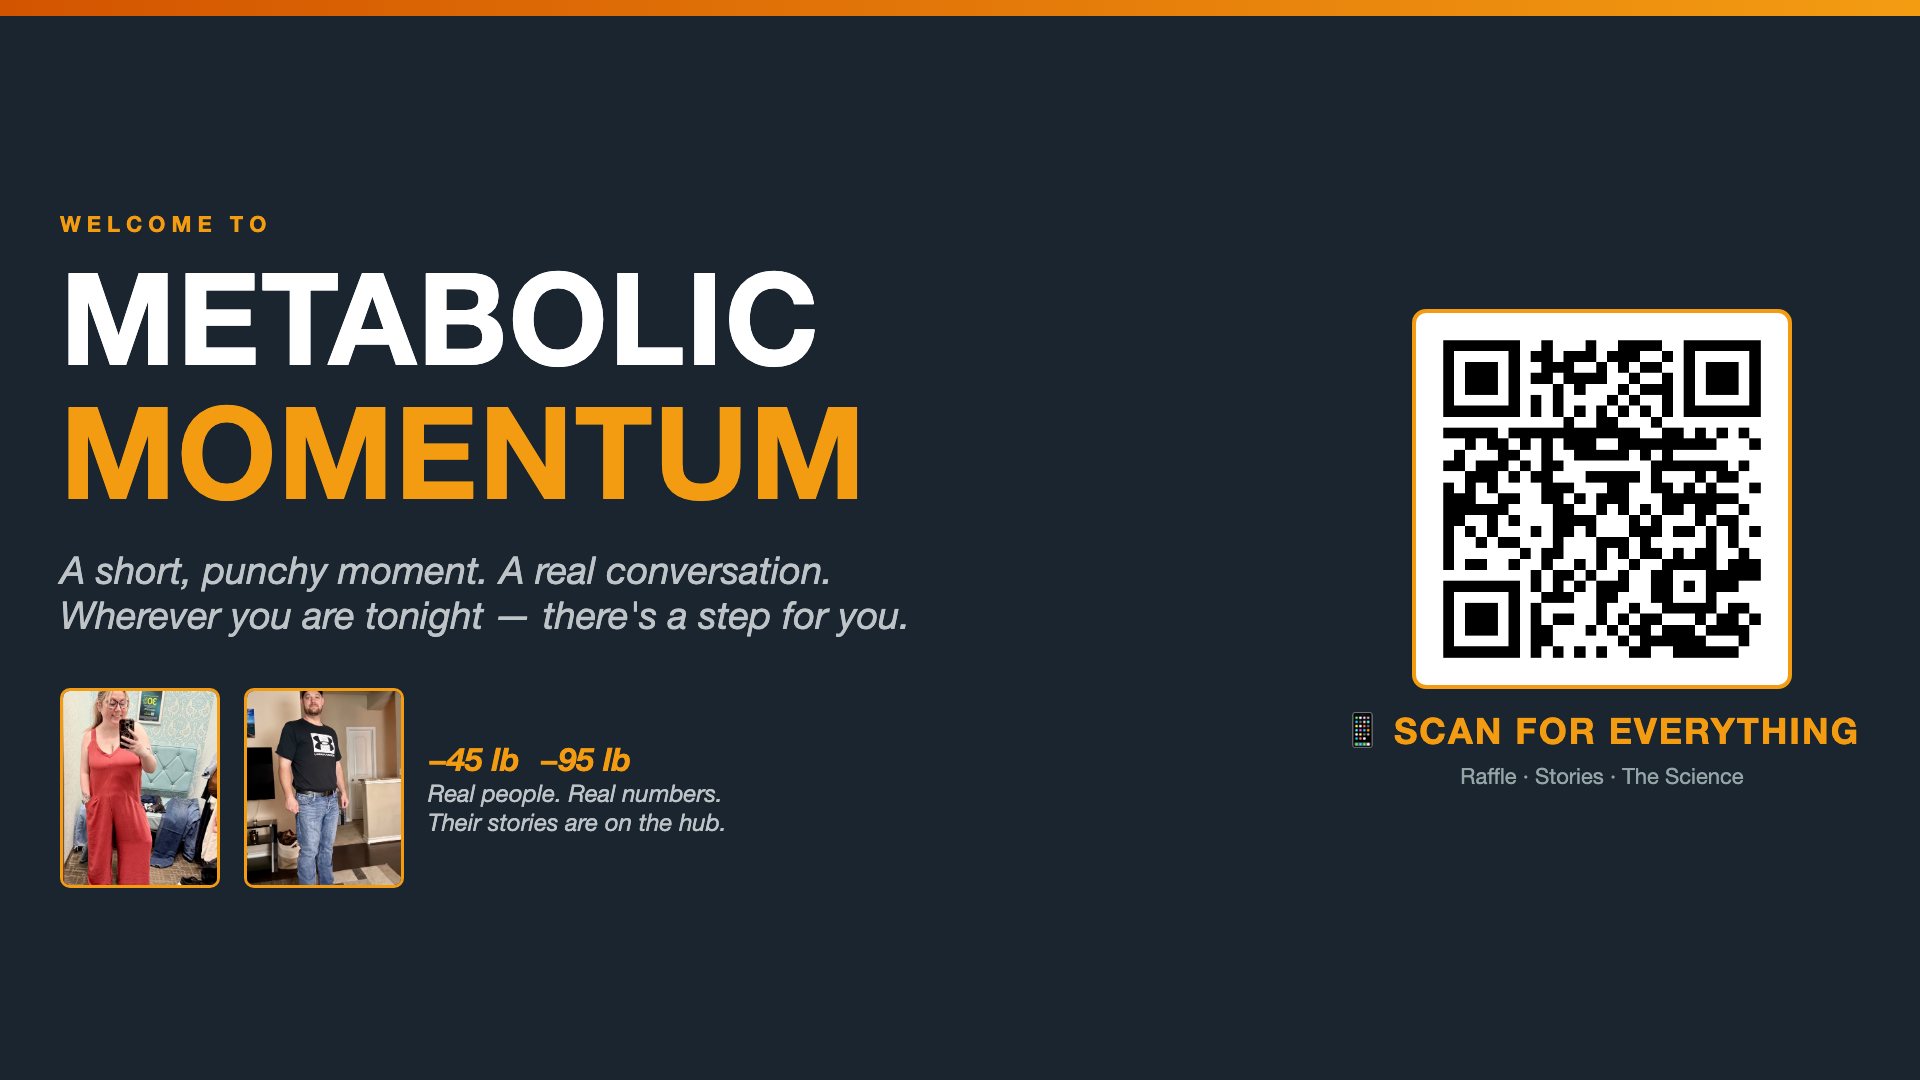
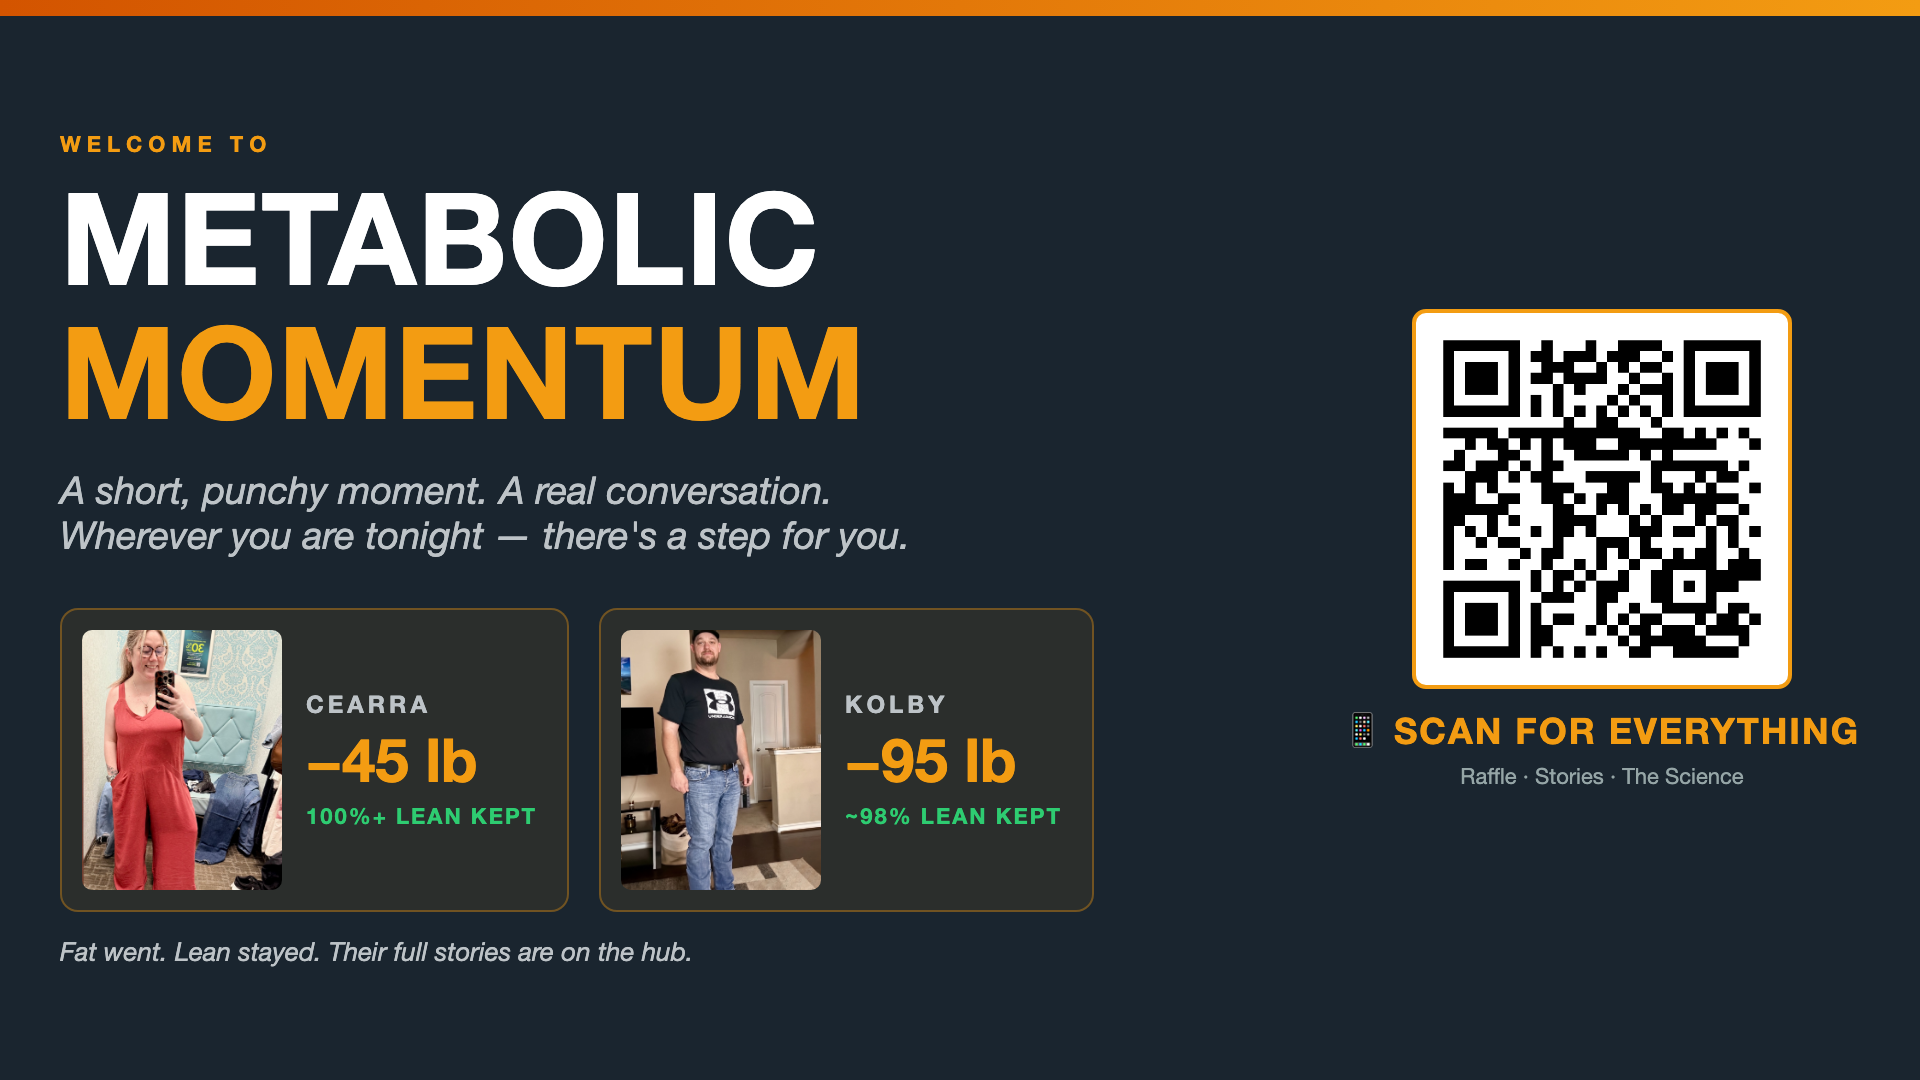
Bigger Cearra/Kolby cards on slide 1 + lean-kept tagline
Replaces the cramped 160×200 thumbs and isolated "−45 / −95" label with
two side-by-side mini-cards (200×260 thumb · name · −lb · "lean kept"
in green). Italic kicker line underneath — "Fat went. Lean stayed.
Their full stories are on the hub." — picks up the lean-retention
thread from slides 2 & 3 and the story pages, so the whole deck reads
as one narrative.

Changed region(s): [[0.0312, 0.1222, 0.5625, 0.825], [0.0312, 0.8556, 0.3438, 0.8861]]

diff --git a/tv-slides/slide-1-welcome.html b/tv-slides/slide-1-welcome.html
@@ -8,14 +8,25 @@
         <div class="brand">Welcome to</div>
         <h1 style="font-size:128px;">METABOLIC<br><span class="accent">MOMENTUM</span></h1>
         <p class="subtitle" style="font-size:38px; margin-top:30px;">A short, punchy moment. A real conversation.<br>Wherever you are tonight — there's a step for you.</p>
-        <div style="display:flex; gap:24px; margin-top:50px; align-items:center;">
-            <img src="../slides/cearra-after.jpg" style="width:160px; height:200px; object-fit:cover; border-radius:10px; border:3px solid #f39c12;">
-            <img src="../slides/kolby-after.jpg" style="width:160px; height:200px; object-fit:cover; border-radius:10px; border:3px solid #f39c12;">
-            <div style="color:#bdc3c7; font-size:24px; font-style:italic;">
-                <strong style="color:#f39c12; font-size:32px;">−45 lb</strong> &nbsp; <strong style="color:#f39c12; font-size:32px;">−95 lb</strong><br>
-                Real people. Real numbers.<br>Their stories are on the hub.
+        <div style="display:flex; gap:30px; margin-top:50px;">
+            <div style="display:flex; gap:24px; align-items:center; padding:20px 30px 20px 20px; background:rgba(243,156,18,0.08); border:2px solid rgba(243,156,18,0.35); border-radius:18px;">
+                <img src="../slides/cearra-after.jpg" style="width:200px; height:260px; object-fit:cover; border-radius:10px;">
+                <div>
+                    <div style="color:#bdc3c7; font-size:24px; font-weight:700; letter-spacing:4px; text-transform:uppercase;">Cearra</div>
+                    <div style="color:#f39c12; font-size:60px; font-weight:800; line-height:1; margin-top:10px; white-space:nowrap;">−45 lb</div>
+                    <div style="color:#2ecc71; font-size:22px; font-weight:700; margin-top:14px; letter-spacing:2px; text-transform:uppercase; white-space:nowrap;">100%+ lean kept</div>
+                </div>
+            </div>
+            <div style="display:flex; gap:24px; align-items:center; padding:20px 30px 20px 20px; background:rgba(243,156,18,0.08); border:2px solid rgba(243,156,18,0.35); border-radius:18px;">
+                <img src="../slides/kolby-after.jpg" style="width:200px; height:260px; object-fit:cover; border-radius:10px;">
+                <div>
+                    <div style="color:#bdc3c7; font-size:24px; font-weight:700; letter-spacing:4px; text-transform:uppercase;">Kolby</div>
+                    <div style="color:#f39c12; font-size:60px; font-weight:800; line-height:1; margin-top:10px; white-space:nowrap;">−95 lb</div>
+                    <div style="color:#2ecc71; font-size:22px; font-weight:700; margin-top:14px; letter-spacing:2px; text-transform:uppercase; white-space:nowrap;">~98% lean kept</div>
+                </div>
             </div>
         </div>
+        <p style="color:#bdc3c7; font-size:26px; font-style:italic; margin-top:24px;">Fat went. Lean stayed. Their full stories are on the hub.</p>
     </div>
     <div class="qr-block">
         <img src="../slides/qr-hub.png">
